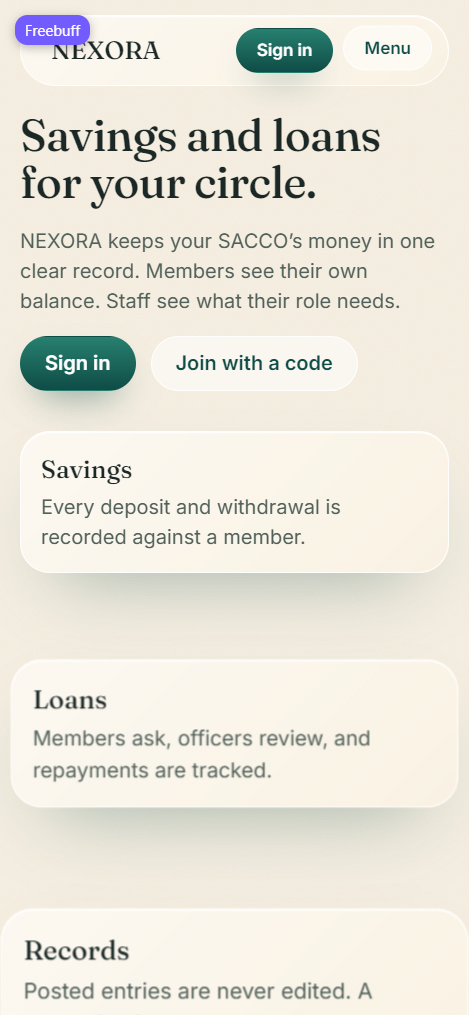
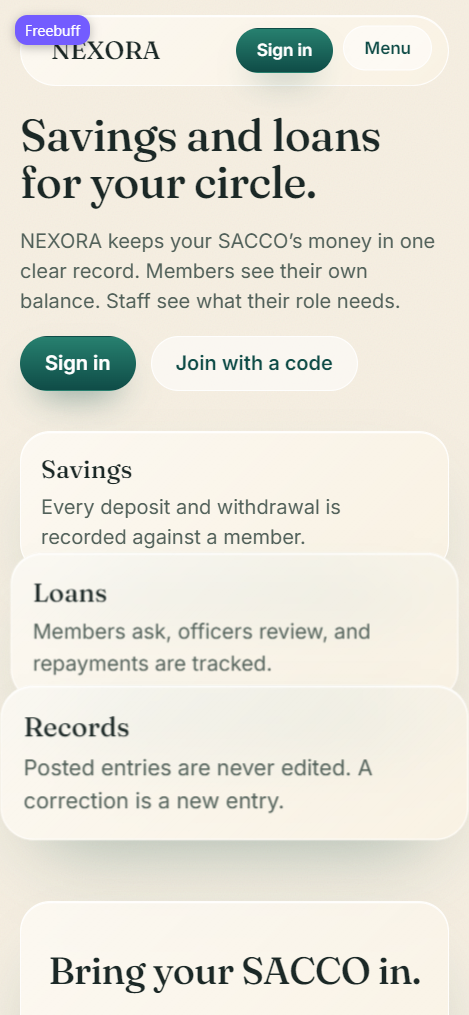
feat(landing): make the cards a real stack and close the page
The cards were never absolutely positioned: .glass sets position: relative and,
being unlayered, it beats Tailwind's `absolute`, so they sat in flow with `top`
nudges and looked like a spaced list. They are positioned inline now, overlapping
by the card's own bottom padding so depth shows without hiding a line of text.

The page also ended in blank space once the duplicated list went, so it gets the
prototype's closing band (Bring your SACCO in, sign in or join with a code) and
its footer line. The scroll-in Reveal is gone: it left the hero and the band at
opacity 0 whenever the observer did not fire, which is not a risk worth taking
for an entrance animation.

Changed region(s): [[0.0299, 0.5498, 0.8955, 0.8552], [0.0299, 0.9163, 0.8955, 1.0]]

diff --git a/frontend/src/pages/public/Landing.jsx b/frontend/src/pages/public/Landing.jsx
@@ -16,36 +16,6 @@ const POINTS = [
   ['Records', 'Posted entries are never edited. A correction is a new entry.'],
 ];
 
-function Reveal({ children, className = '' }) {
-  const ref = useRef(null);
-  const [shown, setShown] = useState(() => typeof IntersectionObserver === 'undefined');
-
-  useEffect(() => {
-    const node = ref.current;
-    if (!node || typeof IntersectionObserver === 'undefined') return undefined;
-    const observer = new IntersectionObserver(entries => {
-      if (entries.some(entry => entry.isIntersecting)) {
-        setShown(true);
-        observer.disconnect();
-      }
-    }, { threshold: 0.2 });
-    observer.observe(node);
-    return () => observer.disconnect();
-  }, []);
-
-  const state = shown
-    ? 'translate-y-0 opacity-100'
-    : 'translate-y-6 opacity-0 motion-reduce:translate-y-0 motion-reduce:opacity-100';
-  return (
-    <div
-      ref={ref}
-      className={`transition duration-700 ease-out motion-reduce:transition-none ${state} ${className}`}
-    >
-      {children}
-    </div>
-  );
-}
-
 function Hero3D() {
   const [tilt, setTilt] = useState({ x: 0, y: 0 });
   const stackRef = useRef(null);
@@ -60,6 +30,16 @@ function Hero3D() {
       const cards = Array.from(stack.children);
       const last = cards[cards.length - 1];
       if (!last) return;
+      // Each card covers the foot of the one behind it. The overlap stays inside
+      // the bottom padding, so it reads as depth without ever hiding a line of
+      // text once the card wraps to three lines on a phone.
+      const padding = parseFloat(getComputedStyle(cards[0]).paddingBottom) || 16;
+      const overlap = Math.max(8, Math.round(padding * 0.85));
+      let top = 0;
+      cards.forEach((card, index) => {
+        card.style.top = `${top}px`;
+        if (index < cards.length - 1) top += card.offsetHeight - overlap;
+      });
       let height = last.offsetTop + last.offsetHeight;
       stack.style.height = `${height}px`;
       // The cards are pushed toward the viewer, so the last one paints a little
@@ -71,15 +51,23 @@ function Hero3D() {
         stack.style.height = `${height}px`;
       }
     };
-    fit();
+    let active = true;
+    const safeFit = () => { if (active) fit(); };
+    safeFit();
+    // The cards wrap differently once the webfonts land, and the first fit runs
+    // before that: measure again on the next frame and when the fonts are ready.
+    const frame = requestAnimationFrame(safeFit);
+    if (document.fonts && document.fonts.ready) document.fonts.ready.then(safeFit).catch(() => {});
     // Offsets are in rem, so a width change moves the cards even when the card
     // boxes themselves keep their size: watch both the cards and the window.
-    const observer = typeof ResizeObserver === 'undefined' ? null : new ResizeObserver(fit);
+    const observer = typeof ResizeObserver === 'undefined' ? null : new ResizeObserver(safeFit);
     if (observer) Array.from(stack.children).forEach(card => observer.observe(card));
-    window.addEventListener('resize', fit);
+    window.addEventListener('resize', safeFit);
     return () => {
+      active = false;
+      cancelAnimationFrame(frame);
       if (observer) observer.disconnect();
-      window.removeEventListener('resize', fit);
+      window.removeEventListener('resize', safeFit);
     };
   }, []);
 
@@ -109,8 +97,15 @@ function Hero3D() {
         {POINTS.map(([label, line], index) => (
           <div
             key={label}
-            className="glass absolute inset-x-0 flex flex-col gap-1"
-            style={{ top: `${index * 4.5}rem`, transform: `translateZ(${index * 2.5}rem)` }}
+            className="glass flex flex-col gap-1"
+            style={{
+              // .glass sets position: relative and, being unlayered CSS, it beats
+              // Tailwind's `absolute`. Inline wins, so the cards really stack.
+              position: 'absolute',
+              left: 0,
+              right: 0,
+              transform: `translateZ(${index * 2.5}rem)`,
+            }}
           >
             <span className="font-serif text-xl">{label}</span>
             <span className="text-muted">{line}</span>
@@ -170,7 +165,6 @@ export default function Landing() {
       </header>
 
       <main className="mx-auto flex w-full max-w-6xl flex-col gap-12 px-4 md:px-6">
-        <Reveal>
         <section className="flex flex-col items-center gap-8 md:flex-row md:items-center md:justify-between md:gap-12">
           <div className="flex max-w-xl flex-col gap-4">
             <h1 className="font-serif text-[clamp(2.25rem,4.2vw,3.4rem)] leading-[1.05]">Savings and loans for your circle.</h1>
@@ -187,8 +181,24 @@ export default function Landing() {
           </div>
           <Hero3D />
         </section>
-        </Reveal>
+
+        <section className="glass cta-band" aria-label="Get started">
+          <h2 className="serif">Bring your SACCO in.</h2>
+          <p className="text-muted">
+            Sign in if you already have an account, or join with the code you were sent.
+          </p>
+          <div className="cta">
+            <Link className="btn" to="/login">Sign in</Link>
+            <Link className="btn ghost" to="/login" state={{ from: '/join' }}>
+              Join with a code
+            </Link>
+          </div>
+        </section>
       </main>
+
+      <footer className="lfoot mx-auto w-full max-w-6xl px-4 md:px-6">
+        NEXORA · Savings and loans for your circle.
+      </footer>
     </div>
   );
 }
